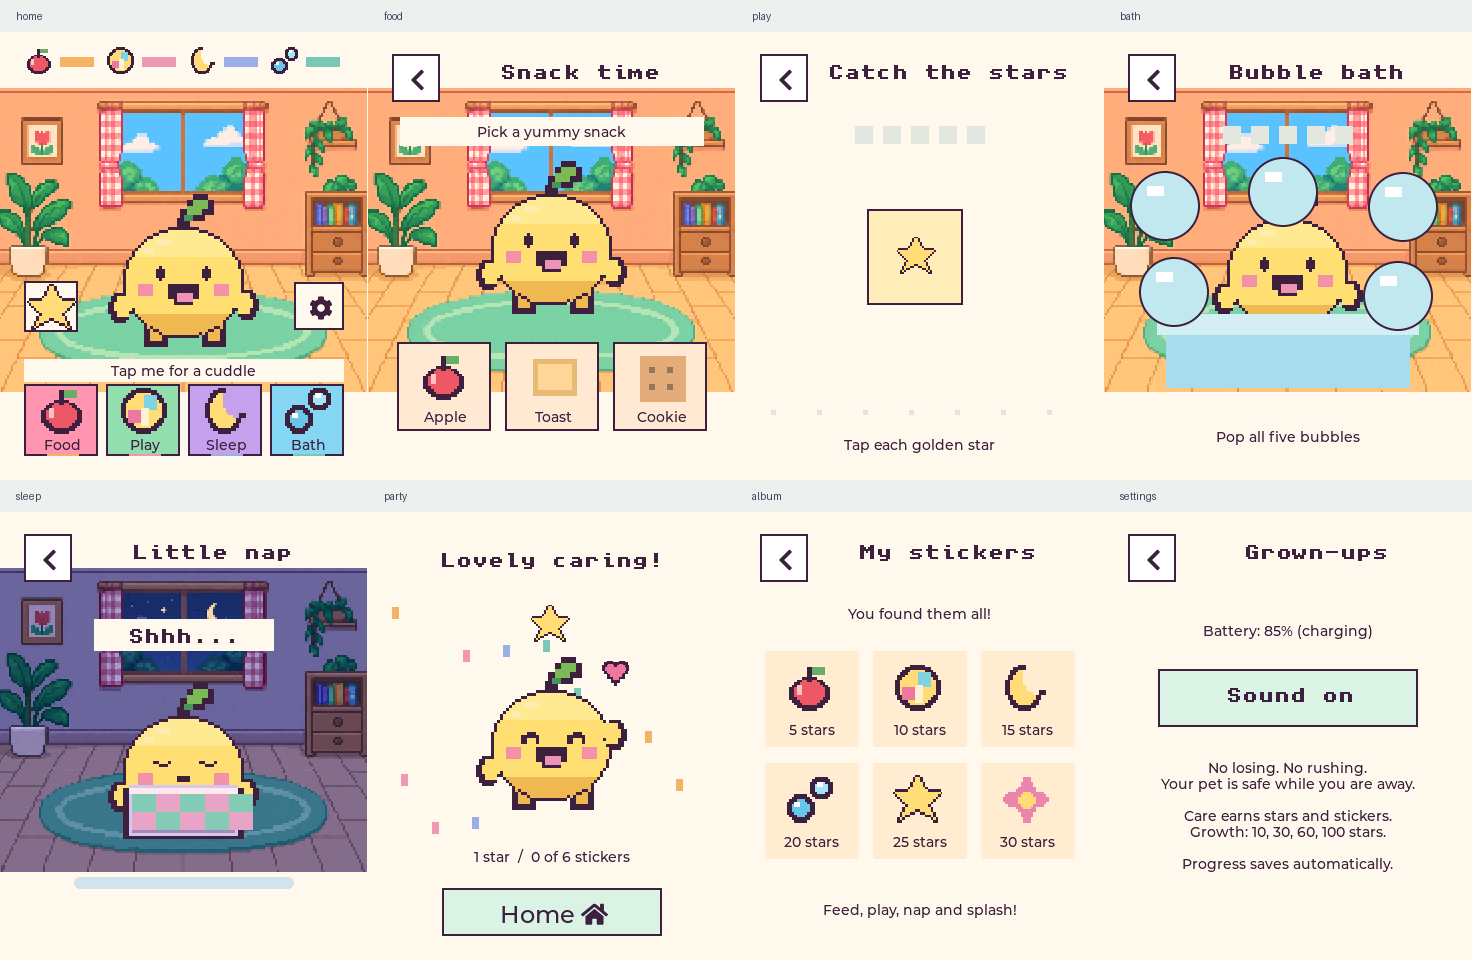
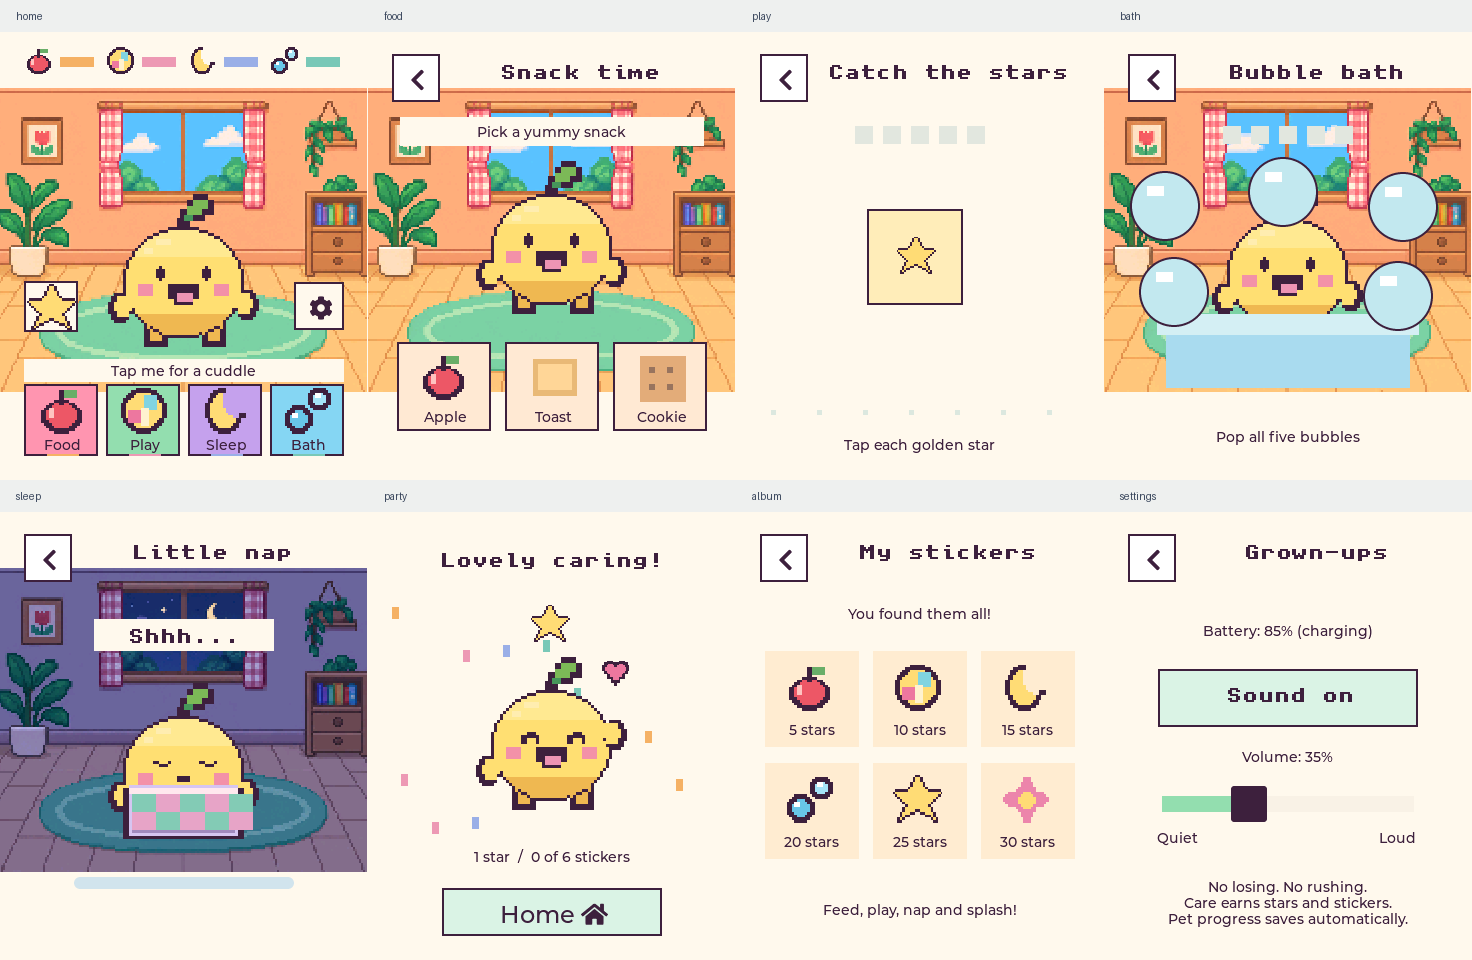
Add speaker volume slider with release preview in options

Changed region(s): [[0.7812, 0.7812, 0.9688, 0.9688]]

diff --git a/firmware/components/ui/ui.c b/firmware/components/ui/ui.c
@@ -22,6 +22,7 @@ typedef enum { HOME, FOOD, CATCH, BATH, SLEEP, PARTY, ALBUM, SETTINGS } View;
 static View s_view;
 static lv_obj_t *s_root, *s_pet, *s_bars[4], *s_target, *s_counter;
 static lv_obj_t *s_dots[5], *s_hint, *s_sleep_bar;
+static lv_obj_t *s_volume_label, *s_volume_slider;
 static lv_obj_t *s_pet_image, *s_pet_heart;
 static pixel_pet_art_t s_pet_art;
 static pixel_face_t s_face;
@@ -184,6 +185,15 @@ static void mute_cb(lv_event_t *e)
 {
     (void)e; s_muted=!s_muted; audio_set_muted(s_muted); show(SETTINGS);
 }
+static void volume_cb(lv_event_t *e)
+{
+    audio_set_volume(lv_slider_get_value(lv_event_get_target(e)));
+    char text[32];
+    snprintf(text, sizeof(text), "Volume: %d%%", audio_get_volume());
+    lv_label_set_text(s_volume_label, text);
+    // One preview on release, rather than a queue of chirps while dragging.
+    if (lv_event_get_code(e) == LV_EVENT_RELEASED) audio_play(SFX_FEED);
+}
 static void make_home(void)
 {
     meadow();
@@ -218,6 +228,7 @@ static void make_home(void)
 static void show(View view)
 {
     // Single owner: no screen-specific timers or callbacks survive the root.
+    s_volume_label=NULL; s_volume_slider=NULL;
     s_pet=NULL; s_target=NULL; s_hint=NULL; s_counter=NULL; s_sleep_bar=NULL;
     for(int i=0;i<4;i++) s_bars[i]=NULL;
     for(int i=0;i<5;i++) s_dots[i]=NULL;
@@ -290,7 +301,25 @@ static void show(View view)
         else snprintf(b,sizeof(b),"Battery: %d%%%s",batt,power_is_charging()?" (charging)":"");
         label(s_root,b,24,111,320,false);
         lv_obj_t *m=button(s_root,54,157,260,58,MINT,mute_cb,0); label(m,s_muted?"Sound off":"Sound on",0,16,260,true);
-        label(s_root,"No losing. No rushing.\nYour pet is safe while you are away.\n\nCare earns stars and stickers.\nGrowth: 10, 30, 60, 100 stars.\n\nProgress saves automatically.",30,248,308,false);
+        snprintf(b, sizeof(b), "Volume: %d%%", audio_get_volume());
+        s_volume_label=label(s_root,b,40,237,288,false);
+        s_volume_slider=lv_slider_create(s_root);
+        lv_obj_set_pos(s_volume_slider,58,284); lv_obj_set_size(s_volume_slider,252,16);
+        lv_slider_set_range(s_volume_slider,0,100);
+        lv_slider_set_value(s_volume_slider,audio_get_volume(),LV_ANIM_OFF);
+        lv_obj_set_ext_click_area(s_volume_slider,18);
+        lv_obj_set_style_bg_color(s_volume_slider,lv_color_hex(0xe9dfcf),LV_PART_MAIN);
+        lv_obj_set_style_bg_color(s_volume_slider,lv_color_hex(0x93deaf),LV_PART_INDICATOR);
+        lv_obj_set_style_bg_color(s_volume_slider,lv_color_hex(INK),LV_PART_KNOB);
+        lv_obj_set_style_pad_all(s_volume_slider,10,LV_PART_KNOB);
+        lv_obj_set_style_radius(s_volume_slider,0,LV_PART_MAIN);
+        lv_obj_set_style_radius(s_volume_slider,0,LV_PART_INDICATOR);
+        lv_obj_set_style_radius(s_volume_slider,3,LV_PART_KNOB);
+        lv_obj_add_event_cb(s_volume_slider,volume_cb,LV_EVENT_VALUE_CHANGED,NULL);
+        lv_obj_add_event_cb(s_volume_slider,volume_cb,LV_EVENT_RELEASED,NULL);
+        label(s_root,"Quiet",38,318,72,false);
+        label(s_root,"Loud",258,318,72,false);
+        label(s_root,"No losing. No rushing.\nCare earns stars and stickers.\nPet progress saves automatically.",30,367,308,false);
     }
 }
 static void refresh(void)

diff --git a/tests/host/test.c b/tests/host/test.c
@@ -19,6 +19,9 @@ int power_battery_percent(void) { return 85; }
 bool power_is_charging(void) { return true; }
 void audio_play(sfx_id_t f) { (void)f; }
 void audio_set_muted(bool m) { (void)m; }
+static int test_volume=35;
+void audio_set_volume(int v) { test_volume=v; }
+int audio_get_volume(void) { return test_volume; }
 static uint32_t pixels[368*448];
 static int tx,ty; static bool pressed;
 static void read_touch(lv_indev_t *i,lv_indev_data_t *d) { (void)i; d->point.x=tx;d->point.y=ty;d->state=pressed?LV_INDEV_STATE_PRESSED:LV_INDEV_STATE_RELEASED; }
@@ -79,7 +82,14 @@ int main(void)
     assert(s_view==HOME);assert(pet_state_get()->evolution_progress==4);
     show(ALBUM);shot("album-locked");
     for(int i=0;i<26;i++)pet_state_play();show(ALBUM);shot("album");show(HOME);shot("grown-pet");
-    show(SETTINGS);shot("settings");tap(180,180);assert(s_muted);
+    show(SETTINGS);shot("settings");
+    tap(245,292); assert(audio_get_volume()>65 && audio_get_volume()<85);
+    int chosen_volume=audio_get_volume();
+    tap(180,180);assert(s_muted);assert(audio_get_volume()==chosen_volume);
+    tap(58,292);assert(audio_get_volume()==0);
+    tap(310,292);assert(audio_get_volume()==100);
+    show(HOME);show(SETTINGS);assert(lv_slider_get_value(s_volume_slider)==100);
+    audio_set_volume(35);show(SETTINGS);
     // Repeated navigation catches dangling object pointers/timers.
     for(int i=0;i<100;i++){show((View)(i%8));advance(80);show(HOME);advance(80);}
     // Review every coat and all five stages with production geometry.

diff --git a/firmware/components/audio/audio.c b/firmware/components/audio/audio.c
@@ -10,6 +10,7 @@
 static QueueHandle_t s_queue;
 static esp_codec_dev_handle_t s_codec;
 static atomic_bool s_muted;
+static atomic_int s_volume = 35;
 static void sound_task(void *arg)
 {
     (void)arg; sfx_id_t fx; int16_t pcm[256];
@@ -17,7 +18,16 @@ static void sound_task(void *arg)
         if(xQueueReceive(s_queue,&fx,portMAX_DELAY)!=pdTRUE) continue;
         if(atomic_load(&s_muted)) continue;
         int hz=fx==SFX_HAPPY?880:fx==SFX_EMOTE?660:740;
+        int applied_volume = -1;
         for(int block=0;block<8;block++) {
+            if (atomic_load(&s_muted)) break;
+            int volume = atomic_load(&s_volume);
+            if (volume == 0) break;
+            // Only the audio worker touches codec volume; UI drags cannot race I2S.
+            if (volume != applied_volume) {
+                esp_codec_dev_set_out_vol(s_codec, volume);
+                applied_volume = volume;
+            }
             for(int i=0;i<256;i++) {
                 int n=block*256+i;
                 float envelope=sinf(3.14159265f*n/2048);
@@ -39,3 +49,10 @@ void audio_init(void)
 }
 void audio_play(sfx_id_t sfx) { if(s_queue && !atomic_load(&s_muted)) xQueueSend(s_queue,&sfx,0); }
 void audio_set_muted(bool muted) { atomic_store(&s_muted,muted); }
+void audio_set_volume(int percent)
+{
+    if (percent < 0) percent = 0;
+    if (percent > 100) percent = 100;
+    atomic_store(&s_volume, percent);
+}
+int audio_get_volume(void) { return atomic_load(&s_volume); }

diff --git a/firmware/components/audio/include/audio.h b/firmware/components/audio/include/audio.h
@@ -23,6 +23,9 @@ void audio_init(void);
 // TODO(build-order:12): non-blocking one-shot cue.
 void audio_play(sfx_id_t sfx);
 void audio_set_muted(bool muted);
+// Session volume, 0 (silent) to 100. Mute preserves the selected level.
+void audio_set_volume(int percent);
+int audio_get_volume(void);
 
 #ifdef __cplusplus
 }

diff --git a/README.md b/README.md
@@ -25,7 +25,7 @@ This uses a separate verified binary bundle and does not erase NVS. For the old 
 - Tap your pet for a cuddle and a little hop.
 - Each completed activity earns one saved star. Collect six stickers, one every five stars, via the star button at home. Growth adds a tuft, flower, scarf and golden badge at 10, 30, 60 and 100 stars.
 - The matching coloured bars show food, happiness, energy and cleanliness. They also open their activities.
-- The cog opens battery information and the sound toggle. There is no destructive reset button in the child-facing UI.
+- The cog opens battery information, the sound toggle and a 0–100% volume slider. Releasing the slider previews the level unless muted. Sound settings are session-local; volume starts at 35% after restart. There is no destructive reset button in the child-facing UI.
 
 Needs decay gently while powered on (one point per 3 / 4 / 5 / 6 minutes), stop at 20, and pause while powered off. There is no death, lost progress or punishment for leaving the toy. Each care action restores 30 points, capped at 100.
 
